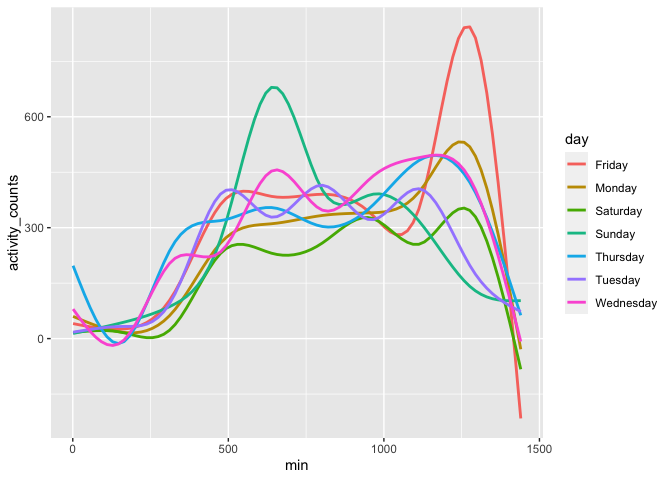
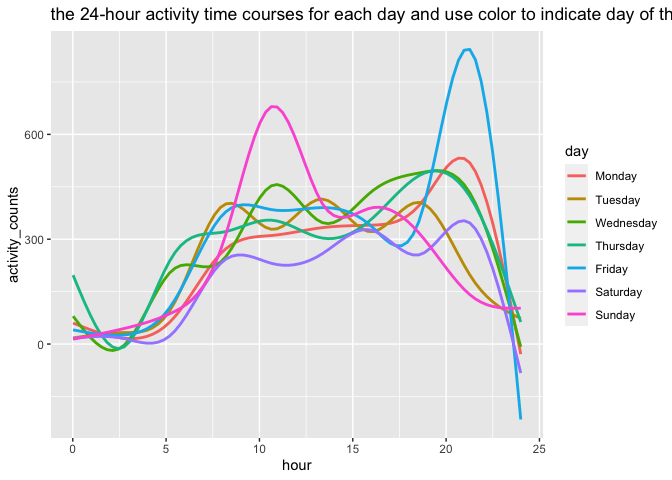
added some comment

diff --git a/p8105_HW3_sl5010.md b/p8105_HW3_sl5010.md
@@ -312,13 +312,13 @@ brfss_smart2010 %>%
 ``` r
 accel_df = read_csv("Data/accel_data.csv") %>%
 mutate(weekdayVSweekend = case_when(
-      day ==  "Friday" ~ "weekday",
       day ==  "Monday" ~ "weekday",
       day ==  "Tuesday" ~ "weekday",
       day ==  "Wednesday" ~ "weekday",
       day ==  "Thursday" ~ "weekday",
-      day == "Sunday" ~ "weekend",
+      day ==  "Friday" ~ "weekday",
       day == "Saturday" ~ "weekend",
+      day == "Sunday" ~ "weekend",
   ))
 ```
 
@@ -342,7 +342,8 @@ pivot_longer(
     values_to = "activity_counts") %>%
 separate(min, into = c("activity", "min"), sep = 9) %>%
 select(-activity, -day_id) %>%
-mutate(min = as.numeric(min))
+mutate(min = as.numeric(min)) %>%
+mutate(day = factor(day, levels = c("Monday","Tuesday","Wednesday","Thursday","Friday","Saturday","Sunday")))
 skimr::skim(accel_df)
 ```
 
@@ -353,7 +354,8 @@ skimr::skim(accel_df)
 | Number of columns                                | 5         |
 | \_\_\_\_\_\_\_\_\_\_\_\_\_\_\_\_\_\_\_\_\_\_\_   |           |
 | Column type frequency:                           |           |
-| character                                        | 2         |
+| character                                        | 1         |
+| factor                                           | 1         |
 | numeric                                          | 3         |
 | \_\_\_\_\_\_\_\_\_\_\_\_\_\_\_\_\_\_\_\_\_\_\_\_ |           |
 | Group variables                                  | None      |
@@ -364,8 +366,13 @@ Data summary
 
 | skim\_variable   | n\_missing | complete\_rate | min | max | empty | n\_unique | whitespace |
 |:-----------------|-----------:|---------------:|----:|----:|------:|----------:|-----------:|
-| day              |          0 |              1 |   6 |   9 |     0 |         7 |          0 |
 | weekdayVSweekend |          0 |              1 |   7 |   7 |     0 |         2 |          0 |
+
+**Variable type: factor**
+
+| skim\_variable | n\_missing | complete\_rate | ordered | n\_unique | top\_counts                                |
+|:---------------|-----------:|---------------:|:--------|----------:|:-------------------------------------------|
+| day            |          0 |              1 | FALSE   |         7 | Mon: 7200, Tue: 7200, Wed: 7200, Thu: 7200 |
 
 **Variable type: numeric**
 
@@ -399,22 +406,32 @@ accel_df %>%
 
     ## # A tibble: 5 × 8
     ## # Groups:   week [5]
-    ##    week  Friday  Monday Saturday Sunday Thursday Tuesday Wednesday
-    ##   <dbl>   <dbl>   <dbl>    <dbl>  <dbl>    <dbl>   <dbl>     <dbl>
-    ## 1     1 480543.  78828.   376254 631105  355924. 307094.   340115.
-    ## 2     2 568839  295431    607175 422018  474048  423245    440962 
-    ## 3     3 467420  685910    382928 467052  371230  381507    468869 
-    ## 4     4 154049  409450      1440 260617  340291  319568    434460 
-    ## 5     5 620860  389080      1440 138421  549658  367824    445366
+    ##    week  Monday Tuesday Wednesday Thursday  Friday Saturday Sunday
+    ##   <dbl>   <dbl>   <dbl>     <dbl>    <dbl>   <dbl>    <dbl>  <dbl>
+    ## 1     1  78828. 307094.   340115.  355924. 480543.   376254 631105
+    ## 2     2 295431  423245    440962   474048  568839    607175 422018
+    ## 3     3 685910  381507    468869   371230  467420    382928 467052
+    ## 4     4 409450  319568    434460   340291  154049      1440 260617
+    ## 5     5 389080  367824    445366   549658  620860      1440 138421
+
+**trends:**Most of the total activity count increases from Monday to
+Saturday.
 
 ### Accelerometer data allows the inspection activity over the course of the day. Make a single-panel plot that shows the 24-hour activity time courses for each day and use color to indicate day of the week. Describe in words any patterns or conclusions you can make based on this graph.
 
 ``` r
 accel_df %>%
-  ggplot(aes(x = min, y = activity_counts, color = day)) + 
-  geom_smooth(se = FALSE) 
+  ## convert min to hours
+  mutate(hour = min/60) %>%
+  ggplot(aes(x = hour, y = activity_counts, color = day)) + 
+  geom_smooth(se = FALSE) + labs(title = "the 24-hour activity time courses for each day and use color to indicate day of the week")
 ```
 
     ## `geom_smooth()` using method = 'gam' and formula 'y ~ s(x, bs = "cs")'
 
 ![](p8105_HW3_sl5010_files/figure-gfm/unnamed-chunk-15-1.png)<!-- -->
+**Describe in words any patterns or conclusions you can make based on
+this graph: ** The activity increases in the morning around 5 am and
+decreases at 22 pm. It seems that the activity for sunday noon is more
+larger than the noon of other days. The the activity for Friday evening
+is more larger than the evening of other days.
